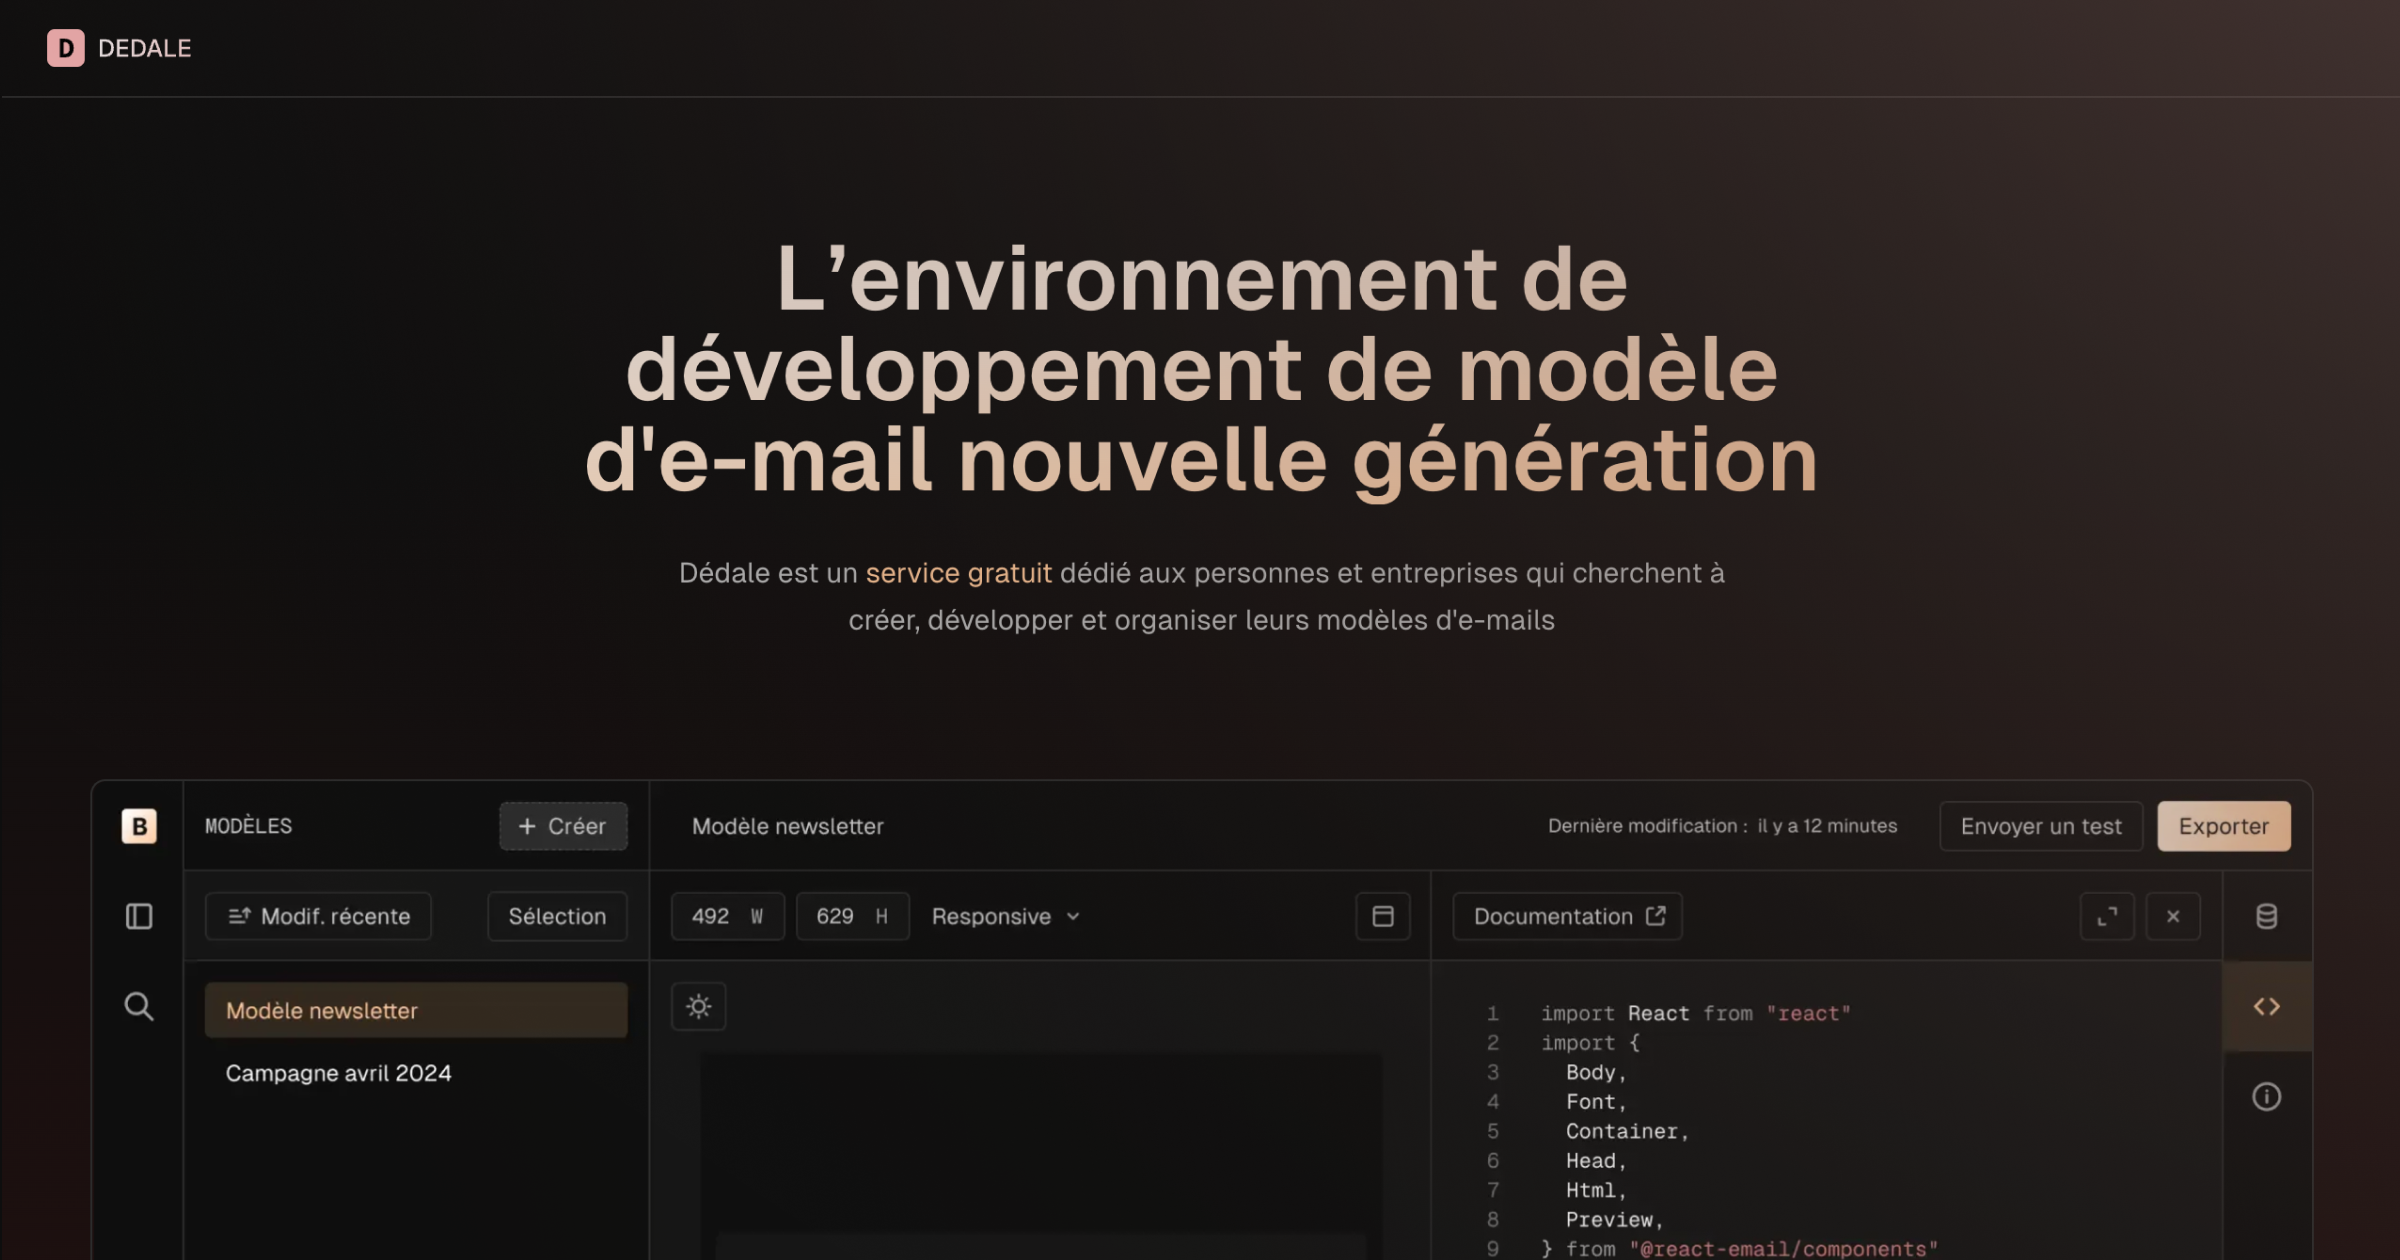
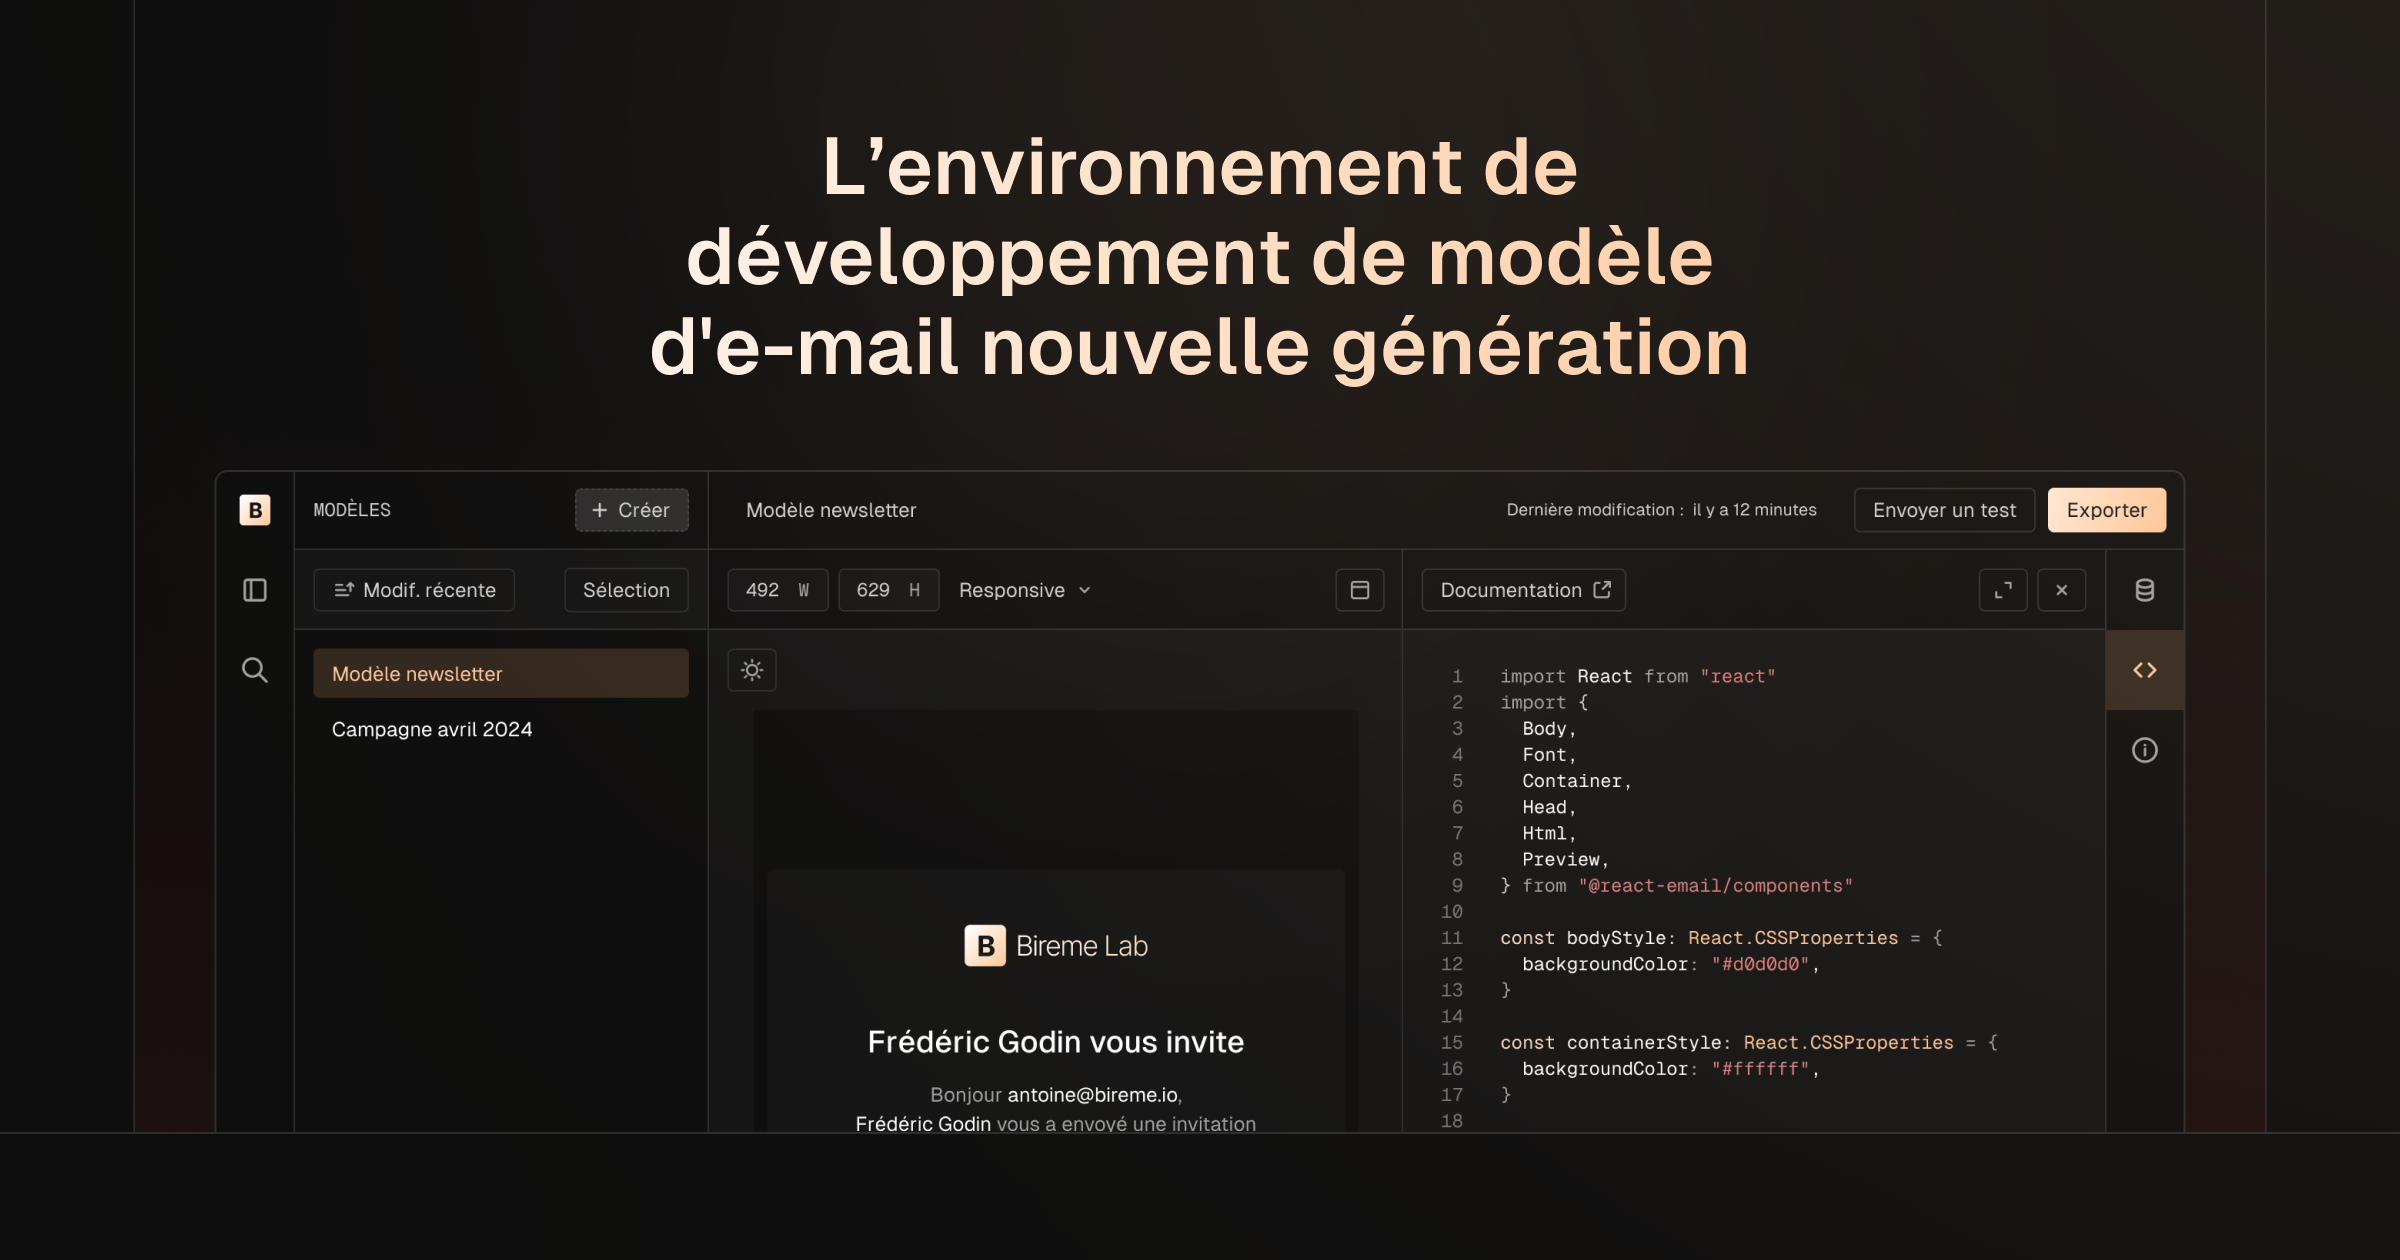
change opengraph image

diff --git a/app/[locale]/dedale/opengraph-image.tsx b/app/[locale]/dedale/opengraph-image.tsx
@@ -42,7 +42,7 @@ const Image = async ({ params }: Props) => {
         }}
       >
         <img
-          src={`${ORIGIN}/images/opengraph-images/dedale-${params.locale}.png?v=2`}
+          src={`${ORIGIN}/images/opengraph-images/dedale-${params.locale}.png?v=3`}
           alt={t("meta_title")}
           width={1200}
           height={630}
